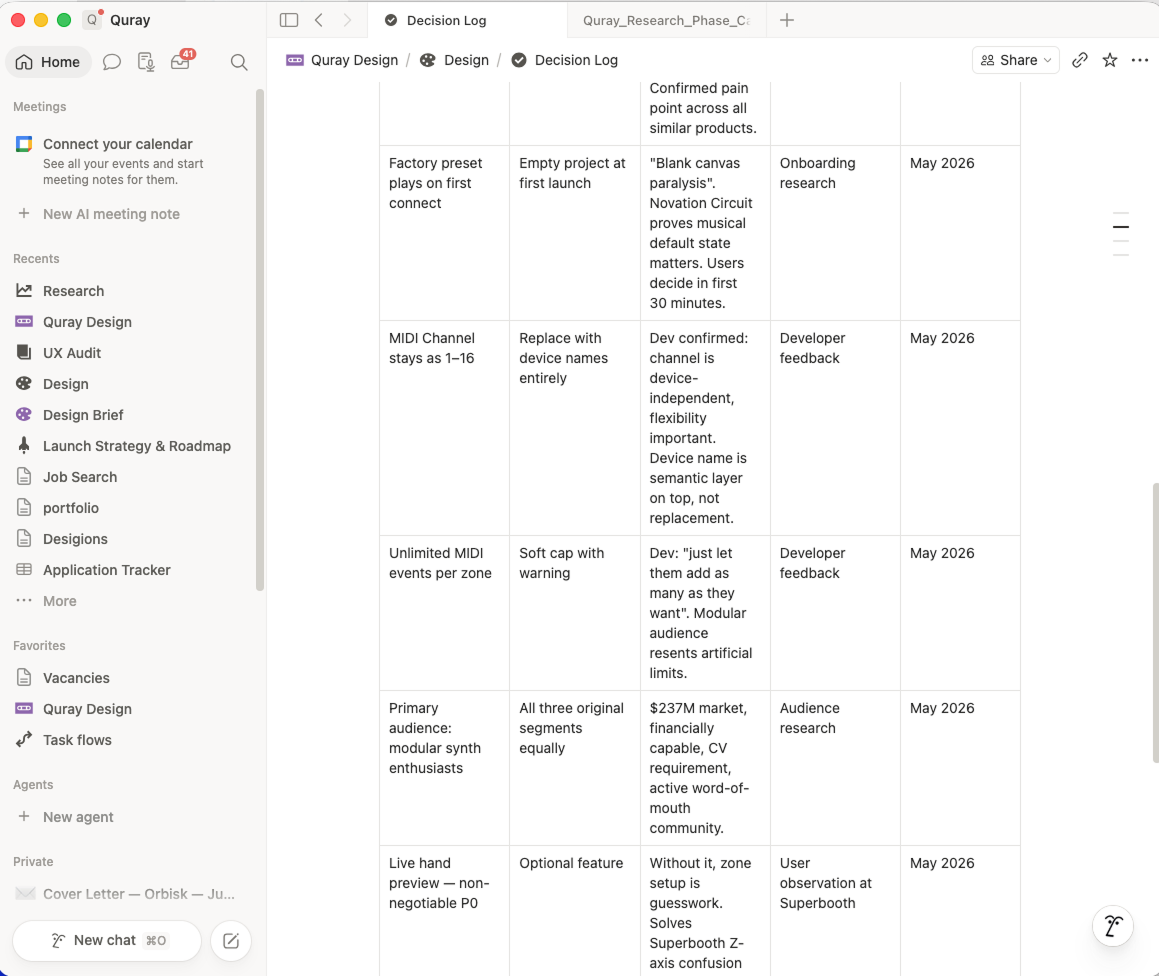
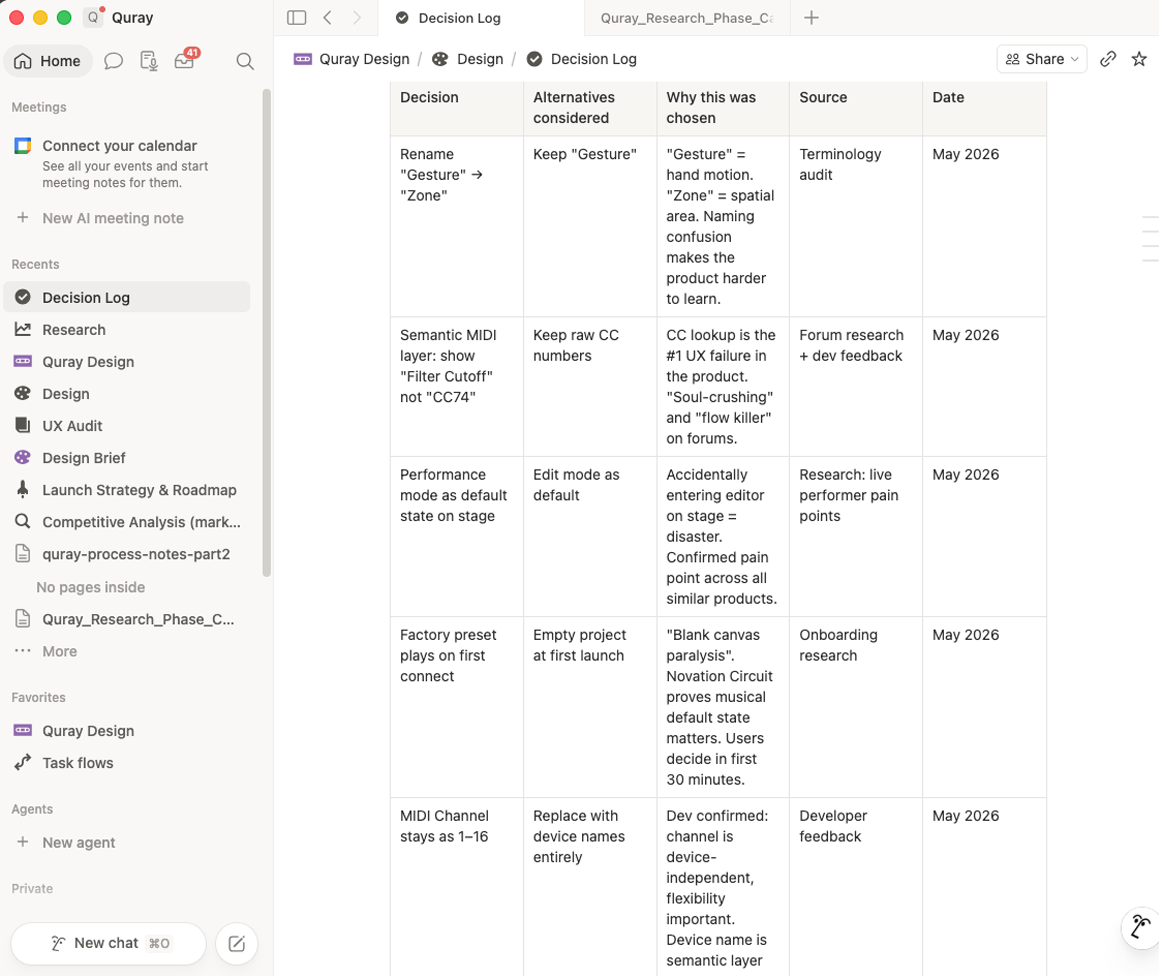
Fix Quray side nav stop at prev/next bar; match Whimsical link style

diff --git a/quray.html b/quray.html
@@ -2592,7 +2592,7 @@
                         Flow 05 — creating a new preset.
                         <a href="https://whimsical.com/olga6695/flow-05-create-new-preset-zone-editor-CnrYjxqSBZ2LtqWX8TWkmN"
                            target="_blank" rel="noopener noreferrer"
-                           class="underline decoration-line-soft underline-offset-4 transition-colors duration-200 hover:text-primary-light hover:decoration-primary-light">Open the full flow in Whimsical</a>
+                           class="text-[#3B47C2] underline decoration-[#3B47C2] underline-offset-2 hover:text-[#0016F2] hover:decoration-[#0016F2]">Open the full flow in Whimsical →</a>
                     </p>
                     <ol class="mt-8 grid grid-cols-1 gap-x-10 gap-y-5 xl:mt-10 xl:grid-cols-2 xl:grid-flow-col xl:grid-rows-3 xl:gap-y-6">
                         <li class="flex min-w-0 gap-x-3">
@@ -3551,7 +3551,7 @@
             .quote-card:hover .quote-card__toggle { pointer-events: none; }
         }
     </style>
-    <div class="full-bleed bg-[#FFF2D7] h-[128px] flex items-center px-6 sm:px-8 md:px-10 xl:px-0 2xl:px-0">
+    <div id="adjacent-projects" class="full-bleed bg-[#FFF2D7] h-[128px] flex items-center px-6 sm:px-8 md:px-10 xl:px-0 2xl:px-0">
         <div class="w-full max-w-[1280px] 2xl:max-w-[1440px] mx-auto flex items-center justify-between xl:px-6 2xl:px-0">
             <a href="dreamkas.html" class="flex items-center gap-x-[16px] no-underline group" aria-label="Previous project: Dreamkas POS">
                 <span class="flex h-[48px] w-[48px] shrink-0 items-center justify-center rounded-full bg-[#0007B2] transition-all duration-300 ease-out group-hover:bg-accent-yellow group-hover:scale-110">
@@ -3954,7 +3954,7 @@
         const contextSection = document.getElementById("context");
         const contextCard = contextSection ? contextSection.querySelector('div[class*="bg-[#ECF1F4]"]') : null;
         const reflectionsSection = document.getElementById("reflections");
-        const nextProjectSection = document.getElementById("next-project");
+        const adjacentProjects = document.getElementById("adjacent-projects");
         const sectionIds = ["summary", "context", "challenge", "flows", "architecture-model", "status", "reflections"];
         const sectionNodes = sectionIds.map((id) => document.getElementById(id)).filter(Boolean);
         const sideNavLinks = sideNav ? Array.from(sideNav.querySelectorAll(".case-side-nav-link")) : [];
@@ -4164,10 +4164,10 @@
 
                 const cardRect = contextCard.getBoundingClientRect();
                 const navHeight = sideNav.offsetHeight;
-                const nextProjectStop = nextProjectSection
-                    ? absTop(nextProjectSection) - navHeight - 64
+                const adjacentStop = adjacentProjects
+                    ? absTop(adjacentProjects) - navHeight - 64
                     : document.documentElement.scrollHeight - navHeight - 64;
-                const maxDocTop = Math.max(initialDocTop, nextProjectStop);
+                const maxDocTop = Math.max(initialDocTop, adjacentStop);
                 const stickyDocTop = scrollY + STICKY_OFFSET;
                 setActiveLink(scrollY);
                 let preferredDocTop = stickyDocTop;
